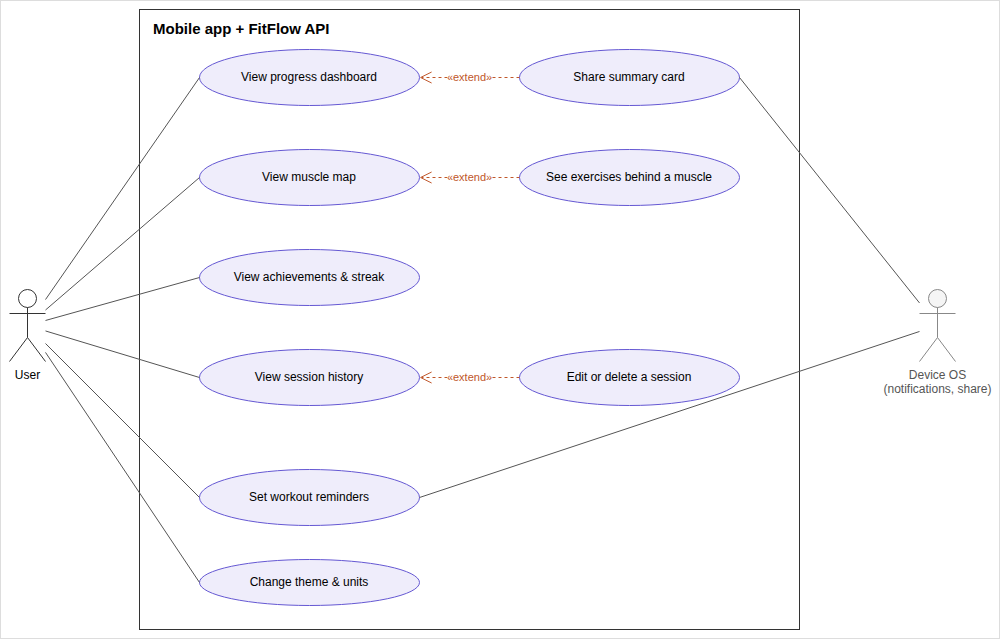
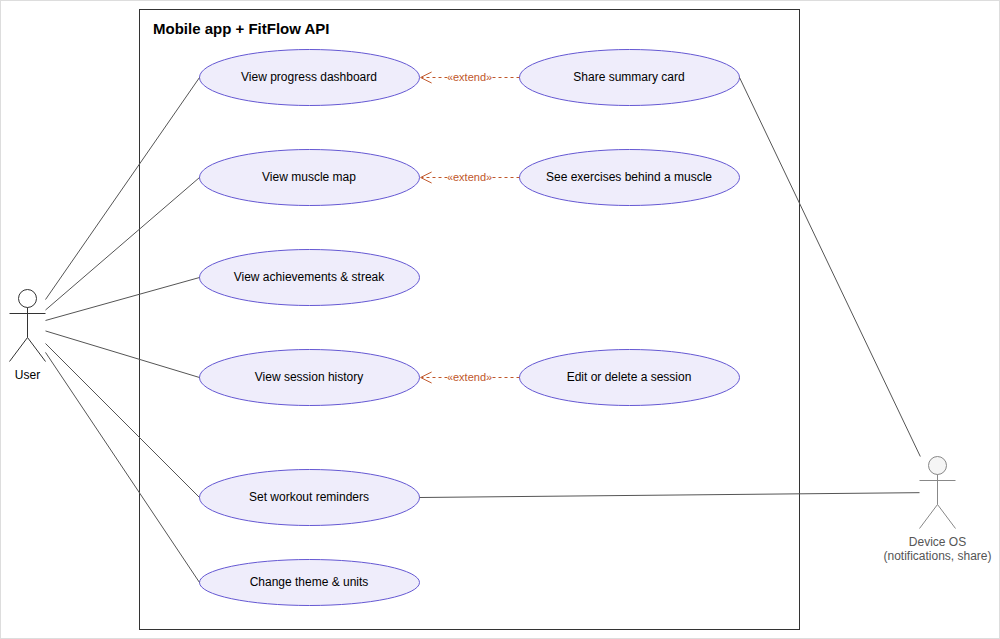
Tighten the UML: optional steps extend, a discard path on sign-out
- The progressive-overload hint «extend»s a workout [earlier sessions
  exist]; searching users «extend»s Manage users (both optional).
- Sign-out gets «extend» "Discard unsynced changes" [upload failed, user
  confirms], the path where pending edits are dropped.
- Device OS sits level with the reminders it serves on Progress.
- generate.py writes UTF-8 (Windows), escapes quotes in page names, and
  drops dead code.

diff --git a/docs/usecase/generate.py b/docs/usecase/generate.py
@@ -116,6 +116,7 @@ PAGES.append({
         uc('s7', 'See “account locked” message', C2, 36, 220),
         uc('s5', 'Sync data with the cloud', C2, 150, 220),
         uc('s6', 'Re-authenticate with Google', C2, 330, 220),
+        uc('s10', 'Discard unsynced changes', C2, 262, 220, 46),
         uc('s8', 'Export data', C2, 430, 180, 46),
         uc('s9', 'Import data', C2, 520, 180, 46),
         box('note', 'n1', 'Sign-in is required. Data stays cached on the phone, so it works offline; edits wait in an outbox until they reach the server.', 600, 610, 300, 80),
@@ -131,6 +132,7 @@ PAGES.append({
         ('include', 's2', 's5', '«include»\nupload pending changes'),
         ('include', 's3', 's6', '«include»'),
         ('extend', 's7', 's1', '«extend»\n[locked by an admin]'),
+        ('extend', 's10', 's2', '«extend»\n[upload failed, user confirms]'),
         ('gen', 's8', 's4', ''),
         ('gen', 's9', 's4', ''),
         ('assoc', 's8', 'os', ''),
@@ -182,7 +184,7 @@ PAGES.append({
     'edges': [
         ('assoc', 'user', 't1', ''),
         ('assoc', 'user', 'f1', ''),
-        ('include', 't1', 't2', '«include»'),
+        ('extend', 't2', 't1', '«extend»\n[earlier sessions exist]'),
         ('include', 't1', 't3', '«include»'),
         ('extend', 't4', 't1', '«extend»\n[draft saved]'),
         ('extend', 't5', 't1', '«extend»\n[camera-checkable set]'),
@@ -232,7 +234,7 @@ PAGES.append({
     'shapes': [
         box('boundary', 'sys', 'Mobile app + FitFlow API', 220, 20, 660, 620),
         actor('user', 'User', 90, 300),
-        actor('os', 'Device OS\n(notifications, share)', 1000, 300, system=True),
+        actor('os', 'Device OS\n(notifications, share)', 1000, 480 + 23 - 36, system=True),
         uc('g1', 'View progress dashboard', C1, 60, 220),
         uc('g2', 'View muscle map', C1, 160, 220),
         uc('g3', 'View achievements & streak', C1, 260, 220),
@@ -283,7 +285,7 @@ PAGES.append({
         ('extend', 'd4', 'd2', '«extend»'),
         ('include', 'd1', 'd3', '«include»'),
         ('include', 'd2', 'd3', '«include»'),
-        ('include', 'm1', 'm2', '«include»'),
+        ('extend', 'm2', 'm1', '«extend»'),
         ('extend', 'm3', 'm1', '«extend»'),
         ('extend', 'm4', 'm3', '«extend»'),
         ('extend', 'm5', 'm3', '«extend»'),
@@ -300,7 +302,7 @@ def drawio(pages):
     for index, page in enumerate(pages):
         width = max(s[3] + s[5] for s in page['shapes']) + 60
         height = max(s[4] + s[6] for s in page['shapes']) + 80
-        out.append(f'  <diagram name="{escape(page["name"])}" id="fitflow-uc-{index + 1}">')
+        out.append(f'  <diagram name="{escape(page["name"], {chr(34): "&quot;"})}" id="fitflow-uc-{index + 1}">')
         out.append(f'    <mxGraphModel dx="1400" dy="900" grid="1" gridSize="10" guides="1" tooltips="1" connect="1" arrows="1" fold="1" page="1" pageScale="1" pageWidth="{width}" pageHeight="{height}" math="0" shadow="0">')
         out.append('      <root>')
         out.append('        <mxCell id="0" />')
@@ -345,14 +347,13 @@ def plantuml(pages):
         out.append('skinparam packageStyle rectangle')
         out.append('skinparam actorStyle awesome')
         out.append('skinparam usecase {\n  BackgroundColor #EFEDFB\n  BorderColor #6558D3\n}')
-        shapes = {s[1]: s for s in page['shapes']}
         plain = lambda label: label.replace('\n', '\\n')
         for kind, id, label, *_ in page['shapes']:
             if kind == 'actor':
                 out.append(f'actor "{plain(label)}" as {id}')
             elif kind == 'system':
                 out.append(f'actor "{plain(label)}" as {id} <<system>>')
-        containers = [s for s in page['shapes'] if s[0] in ('package',)]
+        containers = [s for s in page['shapes'] if s[0] == 'package']
 
         def inside(shape, box):
             _, _, _, x, y, w, h = shape
@@ -391,8 +392,8 @@ def plantuml(pages):
 
 
 if __name__ == '__main__':
-    with open(sys.argv[1], 'w') as f:
+    with open(sys.argv[1], 'w', encoding='utf-8') as f:
         f.write(drawio(PAGES))
-    with open(sys.argv[2], 'w') as f:
+    with open(sys.argv[2], 'w', encoding='utf-8') as f:
         f.write(plantuml(PAGES))
     print('pages:', len(PAGES), 'use cases:', sum(1 for p in PAGES for s in p['shapes'] if s[0] == 'uc'))
